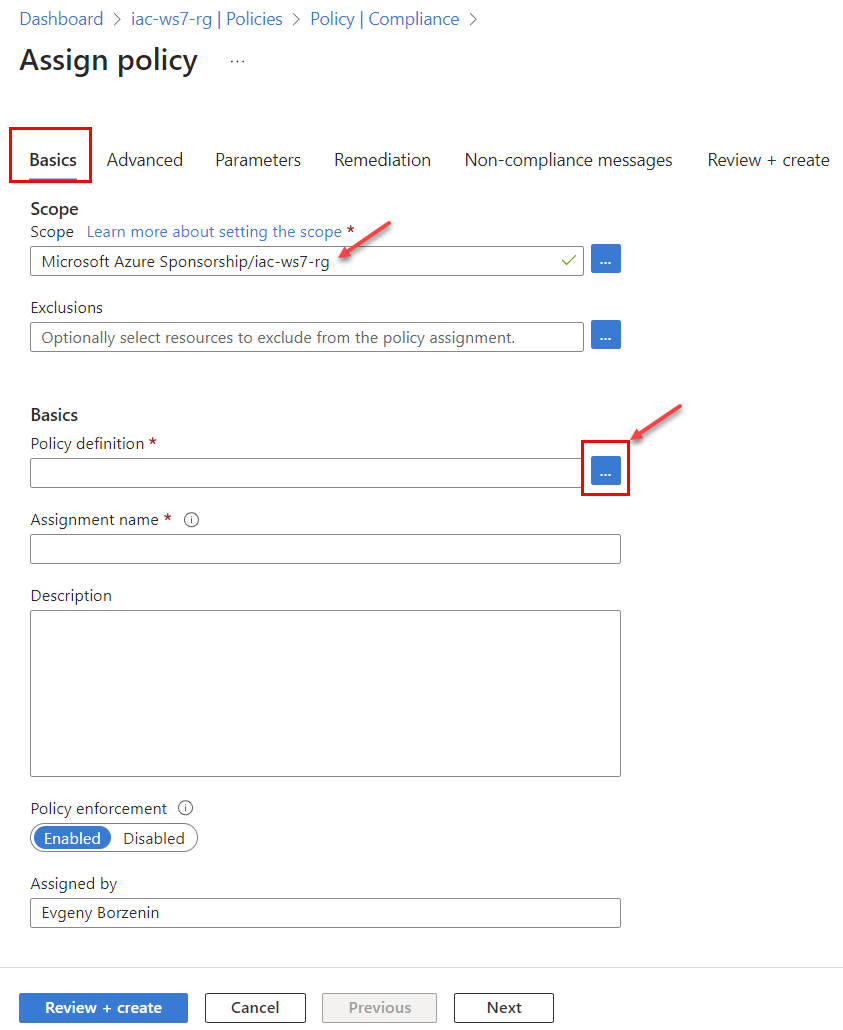
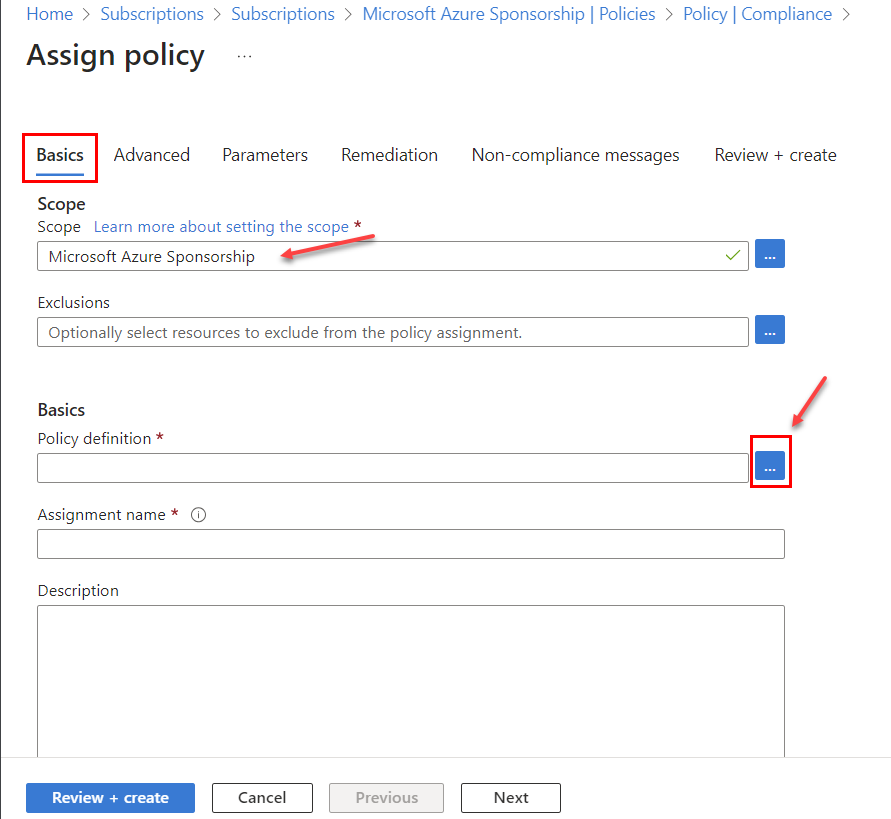
WIP - lab02

diff --git a/docs/labs/lab-02/index.md b/docs/labs/lab-02/index.md
@@ -2,15 +2,15 @@
 
 ## Task #1 - Assign `Require a tag on resource groups` policy to the scope of `iac-ws7-rg` resource group using Azure portal
 
-According to our [company policies](../../company-policy.md), all Resource groups must have a `Department` tag. 
+According to our [company policies](../../company-policy.md), all Resource groups must have a `IAC-Department` tag. 
 
-Azure already provides a policy definition called [Require a tag on resource groups](https://www.azadvertizer.net/azpolicyadvertizer/96670d01-0a4d-4649-9c89-2d3abc0a5025.html) for this purpose. We just need to assign it to the scope of `iac-ws7-rg` resource group. 
+Azure already provides a policy definition called [Require a tag on resource groups](https://www.azadvertizer.net/azpolicyadvertizer/96670d01-0a4d-4649-9c89-2d3abc0a5025.html) for this purpose. We just need to assign it to your Subscription scope. 
 This policy requires one parameter called `tagName` and it uses policy effect `deny`, which means that if the policy is not compliant, the resource group creation will be denied. 
 
 !!! info "Note"
-    When you assign Azure policy, you need to decide to what scope you want to assign it to. You can assign policy to Management Group, Subscription or Resource group scope. In our case, we will assign all policies to the scope of `iac-ws7-rg` resource group.
+    When you assign Azure policy, you need to decide to what scope you want to assign it to. You can assign policy to Management Group, Subscription or Resource group scope. For this workshop, we will assign all policies to the scope of Subscription or `iac-ws7-rg` resource group.
 
-Navigate to the `Settings->Policies` tab of your `iac-ws7-rg` resource group.
+Navigate to the `Settings->Policies` tab of your subscription.
 
 ![01](../../assets/images/lab-02/assign1.png)
 
@@ -18,7 +18,7 @@ Then click on `Assign policy` button.
 
 ![01](../../assets/images/lab-02/assign2.png)
 
-On the `Basic` tab, check that scope is set to `YOU-SUBSCRIPTION-NAME/iac-ws7-rg` and click on `Policy definition search` box.
+On the `Basic` tab, check that scope is set to `YOU-SUBSCRIPTION` and click on `Policy definition search` box.
 
 ![01](../../assets/images/lab-02/assign3.png)
 
@@ -28,15 +28,15 @@ Enter `Require a tag on resource groups` in the search box and click `Add`.
 
 ![01](../../assets/images/lab-02/assign4.png)
 
-This policy assignment will require that `Department` tags is present,and we want to follow our naming conventions, so let's call this assignment `[IAC] - Require a Department tag on resource groups` and goto `Parameters` tab.
+This policy assignment will require that `IAC-Department` tags is present,and we want to follow our naming conventions, so let's call this assignment `[IAC] - Require a IAC-Department tag on resource groups` and goto `Parameters` tab.
 
 ![01](../../assets/images/lab-02/assign5.png)
 
-This policy definition requires one parameter called `tagName`. Enter `Department` in the `Tag Name` box and click `Review + create`, check that everything looks good, and click `Create`. If there are any validation errors, fix them and try again.
+This policy definition requires one parameter called `tagName`. Enter `IAC-Department` in the `Tag Name` box and click `Review + create`, check that everything looks good, and click `Create`. If there are any validation errors, fix them and try again.
 
 ![01](../../assets/images/lab-02/assign6.png)
 
-After assignments are cerated, you can always find them under `Assignments` tab. Navigate to `Settings->Policies` tab of your `iac-ws7-rg` resource group and click on `Assignments` tab.
+After assignments are cerated, you can always find them under `Assignments` tab. Navigate to `Settings->Policies` tab of your subscription and click on `Assignments` tab.
 
 ![01](../../assets/images/lab-02/assign7.png)
 
@@ -44,27 +44,36 @@ You should now see your newly created policy assignment.
 
 ## Task #2 - Test policy
 
-Let's try to create a storage account without `Department` tag and check if the policy is working as expected.
+Let's try to create new Resource group without `IAC-Department` tag and check if the policy is working as expected.
 
 ```powershell
-az storage account create -g iac-ws7-rg -n safoobartest
+# Create new resource group without required tags
+az group create -n iac-ws7-test-rg -l norwayeast
 ```
 
 You should see an error message similar to this one:
 
 ```json
-(RequestDisallowedByPolicy) Resource 'safoobartest' was disallowed by policy. Policy identifiers: '[{"policyAssignment":{"name":"[IAC] - Require a Department tag on resources","id":"/subscriptions/.../resourceGroups/iac-ws7-rg/providers/Microsoft.Authorization/policyAssignments/1eb584cf0b424c739d8b6ddd"},"policyDefinition":{"name":"Require a tag on resources","id":"/providers/Microsoft.Authorization/policyDefinitions/871b6d14-10aa-478d-b590-94f262ecfa99"}}]'.
+(RequestDisallowedByPolicy) Resource 'iac-ws7-test-rg' was disallowed by policy. Policy identifiers: '[{"policyAssignment":{"name":"[IAC] - Require a IAC-Department tag on resource groups","id":"/subscriptions/8878beb2-5e5d-4418-81ae-783674eea324/providers/Microsoft.Authorization/policyAssignments/bc5fc9ede0044888b9bfe545"},"policyDefinition":{"name":"Require a tag on resource groups","id":"/providers/Microsoft.Authorization/policyDefinitions/96670d01-0a4d-4649-9c89-2d3abc0a5025"}}]'.
 ```
 
-As you can see, the creation of storage account was denied.
+As you can see, the creation of resource group was denied.
+
+Now let's try to create new Resource group with `IAC-Department` tag.
+
+```powershell
+# Create new resource group with required tags
+az group create -n iac-ws7-test-rg -l norwayeast --tags IAC-Department=IaC
+```
+Now you should be able to create new resource group without any issues.
 
 ## Task #3 - Assign `Inherit a tag from the resource group` policy to `iac-ws7-rg` resource group using `az cli`
 
-Another convention from our [company policies](../../company-policy.md) is that all resources under Resource Group should inherit tags from resource group. There are two policies that can help us with this: [Inherit a tag from the resource group](https://www.azadvertizer.net/azpolicyadvertizer/cd3aa116-8754-49c9-a813-ad46512ece54.html) and [Inherit a tag from the resource group if missing](https://www.azadvertizer.net/azpolicyadvertizer/ea3f2387-9b95-492a-a190-fcdc54f7b070.html). This is a policy with `modify` effect, which means that if resource doesn't have a tag, the policy will add it.
+Next convention from our [company policies](../../company-policy.md) is that all resources deployed into Resource Group should inherit tags from resource group. There is [Inherit a tag from the resource group](https://www.azadvertizer.net/azpolicyadvertizer/cd3aa116-8754-49c9-a813-ad46512ece54.html) policy that can help us with this. This is `Modify` policy, which means that if resource doesn't have a tag, the policy will add it.
 
-Let's create new policy assignment for [Inherit a tag from the resource group](https://www.azadvertizer.net/azpolicyadvertizer/cd3aa116-8754-49c9-a813-ad46512ece54.html) policy, using `az cli`. 
+Let's create new policy assignment for `Inherit a tag from the resource group` policy, using `az cli`. This time we create assignment at the `iac-ws7-rg` resource group scope.
 
-We need to specify the name of the Tag that we want to inherit from the resource group. In our case, it is `Department`. We also want to follow our naming conventions, therefore we call this assignment `[IAC] - Inherit Department tag from the resource group`.
+We need to specify the name of the Tag that we want to inherit from the resource group. In our case, it is `IAC-Department`. We also want to follow our naming conventions, therefore we call this assignment `[IAC] - Inherit Department tag from the resource group`.
 
 [az policy assignment create](https://learn.microsoft.com/en-us/cli/azure/policy/assignment?view=azure-cli-latest#az-policy-assignment-create) command requires the following parameters:
 
@@ -72,16 +81,15 @@ We need to specify the name of the Tag that we want to inherit from the resource
 - `--display-name` - display name of the policy assignment
 - `--resource-group` - the resource group where the policy will be applied. In our case, it is `iac-ws7-rg`
 - `--policy` - policy name or definition ID
-- `--params` - JSON formatted string with parameter values of the policy rule. In our case, we need to provide `tagName` parameter with value `Department`.
+- `--params` - JSON formatted string with parameter values of the policy rule. In our case, we need to provide `tagName` parameter with value `IAC-Department`.
 - `--mi-system-assigned` - use system assigned managed identity
 - `--location` - location of the policy assignment. In our case, it is `norwayeast`
 
-This policy is type of `Modify`. This means that it will modify resources and therefore it requires a managed identity with `Contributor` role. Therefore we need to use `--mi-system-assigned` parameter.
+Since this is `Modify` policy and it will modify resources, it requires a managed identity with `Contributor` role. Therefore we need to use `--mi-system-assigned` parameter.
 
 ```powershell
 # Create new policy assignment
-az policy assignment create --name "[IAC] - Inherit Department tag from the resource group" --display-name "[IAC] - Inherit Department tag from the resource group" --resource-group "iac-ws7-rg" --policy
- "cd3aa116-8754-49c9-a813-ad46512ece54" --params '{\"tagName\": { \"value\": \"Department\"}}' --mi-system-assigned --location norwayeast
+az policy assignment create --name "[IAC] - Inherit IAC-Department tag from the resource group" --display-name "[IAC] - Inherit IAC-Department tag from the resource group" --resource-group iac-ws7-rg --policy  cd3aa116-8754-49c9-a813-ad46512ece54 --params '{\"tagName\": { \"value\": \"IAC-Department\"}}' --mi-system-assigned --location norwayeast
 ```
 
 Now let's check if the policy was created successfully.
@@ -91,16 +99,40 @@ Now let's check if the policy was created successfully.
 az policy assignment list -g iac-ws7-rg --query [].displayName -otsv
 ```
 
-## Task #4 - Assign `Inherit a tag from the Subscription` policy to `iac-ws7-rg` resource group using `Bicep`
+## Task #4 - Test policy
 
-Yet another convention from our [company policies](../../company-policy.md) is that all resources must inherit tags from Subscription. There are two policies that can help us with this: [Inherit a tag from the subscription](https://www.azadvertizer.net/azpolicyadvertizer/b27a0cbd-a167-4dfa-ae64-4337be671140.html) and [Inherit a tag from the subscription if missing](https://www.azadvertizer.net/azpolicyadvertizer/40df99da-1232-49b1-a39a-6da8d878f469.html). This is a policy with `modify` effect, which means that if resource doesn't have a tag, the policy will add it.
+Let's test that policy is working as expected. 
+First, let's add `IAC-Department` tag to `iac-ws7-rg` resource group.
 
-Let's create new policy assignment for [Inherit a tag from the subscription](https://www.azadvertizer.net/azpolicyadvertizer/b27a0cbd-a167-4dfa-ae64-4337be671140.html) policy, using `Bicep`. This time, let's inherit `Owner` tag, therefore we call this assignment `[IAC] - Inherit Owner tag from the subscription`.
+```powershell
+# Get resource group id
+$rgId=$(az group show -n iac-ws7-rg --query id --output tsv)
+
+# Add IAC-Department tag to iac-ws7-rg resource group
+az tag create --resource-id $rgId --tags IAC-Department=IaC
+```
+
+Now, create any resource in `iac-ws7-rg` resource group. For example, let's cerate Managed Identity, just because it is quick to create.
+
+```powershell 
+# Create new managed identity
+az identity create -g iac-ws7-rg -n iac-ws7-test-mi
+```
+
+As you can see from the output, the new managed identity inherited `IAC-Department` tag from `iac-ws7-rg`. You can also check it in the Azure portal. 
+
+![01](../../assets/images/lab-02/test-itrg.png)
+
+## Task #5 - Create  `Inherit a tag from the Subscription` policy assignment using `Bicep`
+
+Yet another convention from our [company policies](../../company-policy.md) is that all resources must inherit tags from Subscription. [Inherit a tag from the subscription](https://www.azadvertizer.net/azpolicyadvertizer/b27a0cbd-a167-4dfa-ae64-4337be671140.html) policy can can be used for this us-case. As with `Inherit a tag from the resource group`, this is `Modify` policy, which means that if resource doesn't have a tag, the policy will add it.
+
+Let's create new policy assignment for `Inherit a tag from the subscription` policy, using `Bicep`. This time, let's inherit `IAC-Owner` tag, therefore we call this assignment `[IAC] - Inherit IAC-Owner tag from the subscription`. The assignment scope for this policy is `iac-ws7-rg` resource group.
 
 Create `assignment.bicep` file with the following content:
     
 ```bicep
-param parPolicyAssignmentName string = '[IAC] - Inherit Owner tag from the subscription'
+param parPolicyAssignmentName string = '[IAC] - Inherit IAC-Owner tag from the subscription'
 param parPolicyDefinitionID string = '/providers/Microsoft.Authorization/policyDefinitions/b27a0cbd-a167-4dfa-ae64-4337be671140'
 param parLocation string = resourceGroup().location
 
@@ -115,7 +147,7 @@ resource resAssignment 'Microsoft.Authorization/policyAssignments@2022-06-01' = 
       policyDefinitionId: parPolicyDefinitionID
       parameters: {          
         tagName: {
-          value: 'Owner'
+          value: 'IAC-Owner'
         }          
       }        
     }
@@ -136,15 +168,26 @@ az deployment group create --name 'assign-policy' --resource-group 'iac-ws7-rg' 
 az policy assignment list -g iac-ws7-rg --query [].displayName -otsv
 ```
 
-## Task #5 - Check compliance score
 
-Navigate to `Settings->Policies` tab of your `iac-ws7-rg` resource group.
+## Task #6 - Test policy
 
-![01](../../assets/images/lab-02/complience-0.png)
+Let's test that policy is working as expected. 
+First, let's add `IAC-Owner` tag to your subscription.
 
-Then click on `Compliance` tab, enter `iac` in the `Search` box and see the compliance score.
+```powershell
+# Get subscription id
+$subscriptionId=$(az account show --query id --output tsv)
+# Add IAC-Owner tag to subscription
+az tag create --resource-id /subscriptions/$subscriptionId --tags IAC-Owner=JamesBond
+```
 
-![01](../../assets/images/lab-02/complience-1.png)
+Next, create another instance of Managed Identity.
 
-At the moment, the compliance score is 0%. The `[IAC] - Require a Department tag on resource groups` policy shows that there is is one non complaint resource group, `[IAC] - Inherit Owner tag from the subscription` shows that there are 7non complaint resources and `[IAC] - Inherit Department tag from the resource group` is 100% compliant.
+```powershell 
+# Create new managed identity
+az identity create -g iac-ws7-rg -n iac-ws7-test1-mi
+```
 
+As you can see from the output, the new managed identity inherited both tags, `IAC-Department` from `iac-ws7-rg` resource group and `IAC-Owner` from Subscription. You can also check it in the Azure portal. 
+
+![01](../../assets/images/lab-02/test-itsub.png)

diff --git a/docs/company-policy.md b/docs/company-policy.md
@@ -2,13 +2,12 @@
 
 - All resources must be deployed into `Norway East`, `Norway West` or `Sweden central` regions. 
 - All resource groups must be tagged with the following three tags:
-  - Department
-  - Owner
-  - Environment
+  - IAC-Department
+  - IAC-Owner
 - You shouldn't be allowed to create resource groups without these tags.
 - All resources under Resource Group should inherit tags from resource group.
 - All resources must follow naming convention.
 - Resource group must inherit tags from Subscription.
 - Virtual Network and Network Security Group (NSG) diagnostic settings must be deployed by policy.
 - NSG flow logs and traffic analytics must be deployed by policy.
-- All Policy assignment must be prefixed with `[IAC] - ` prefix.
+- All Policy Definition, Policy Initiatives (aka definition sets)and Policy Assignments must be prefixed with `[IAC] - ` prefix.

diff --git a/docs/labs/lab-08/index.md b/docs/labs/lab-08/index.md
@@ -7,6 +7,7 @@ This is the most important part of the workshop. We need to clean up all resourc
 Remove all resources that were created during the workshop by running the following command:
 
 ```powershell
+as group delete --name iac-ws7-test-rg --yes
 az group delete --name iac-ws7-rg --yes
 ```
 
